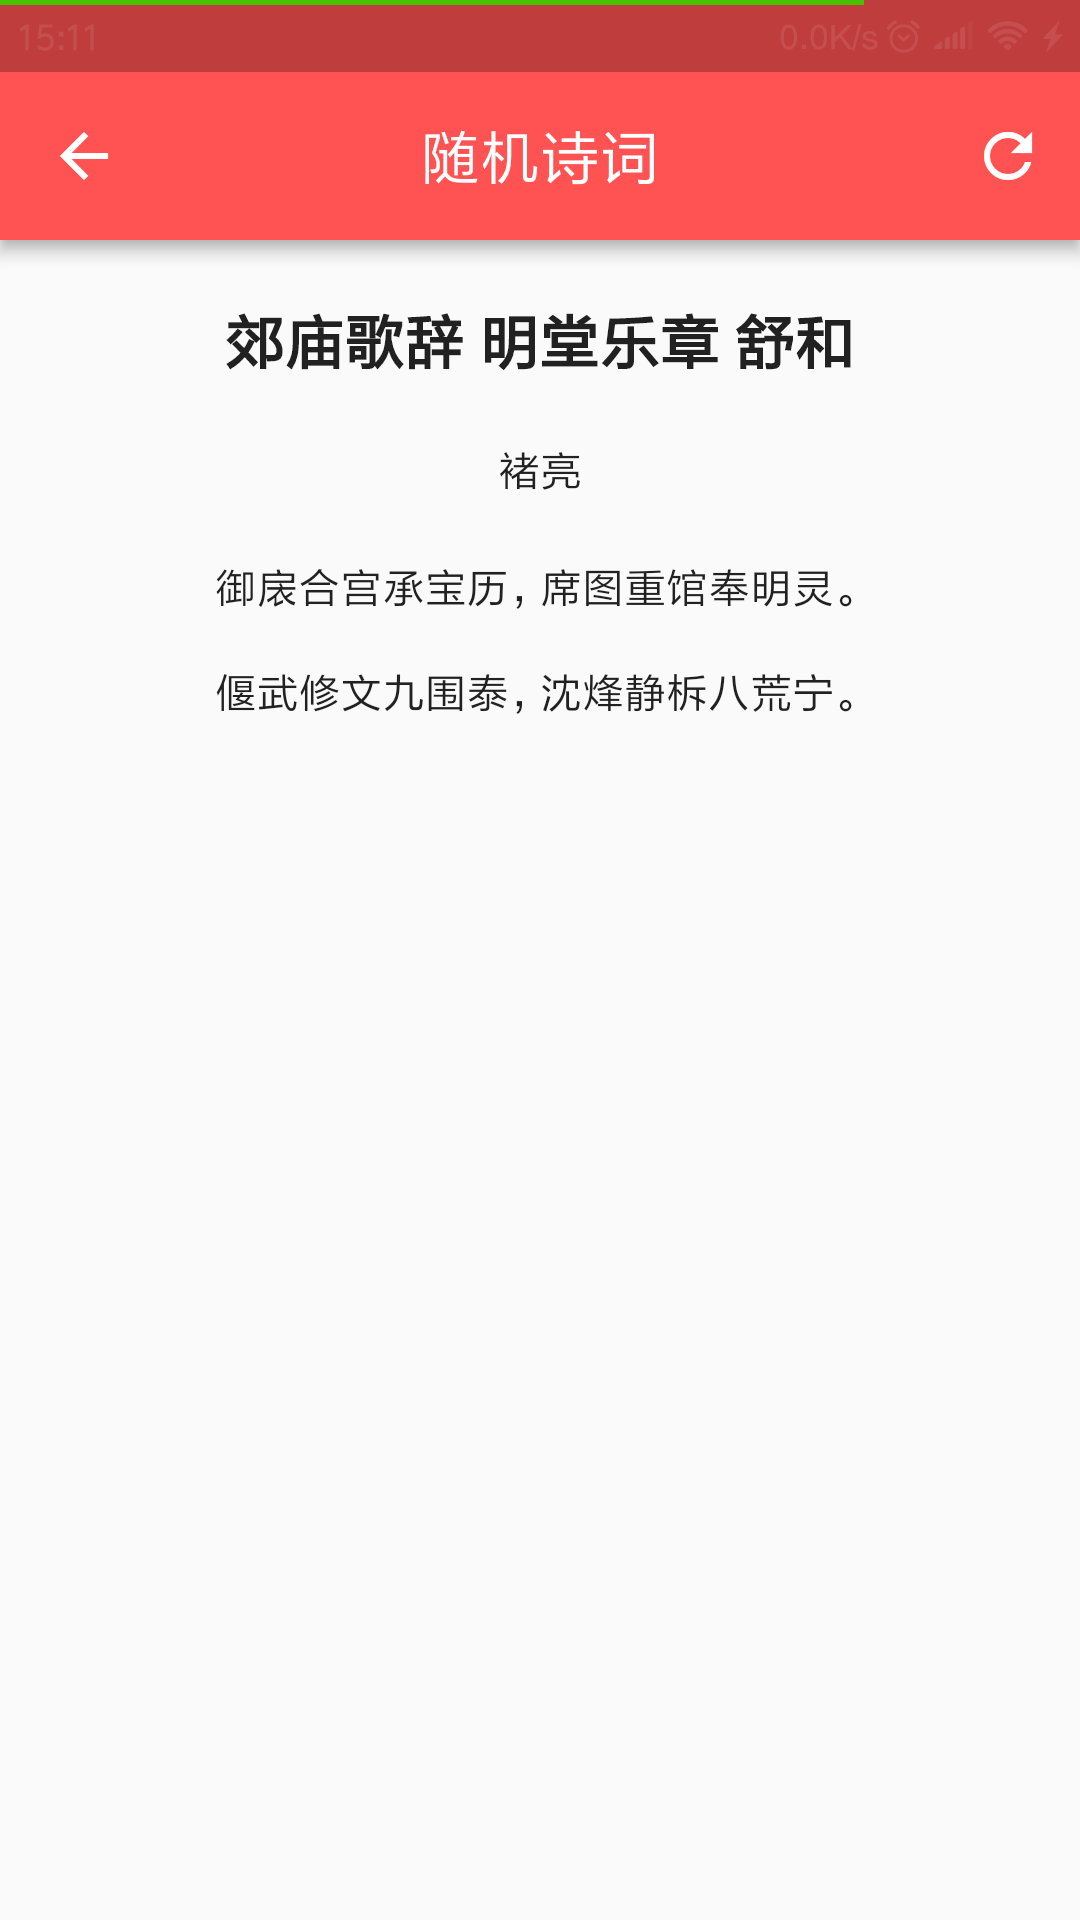
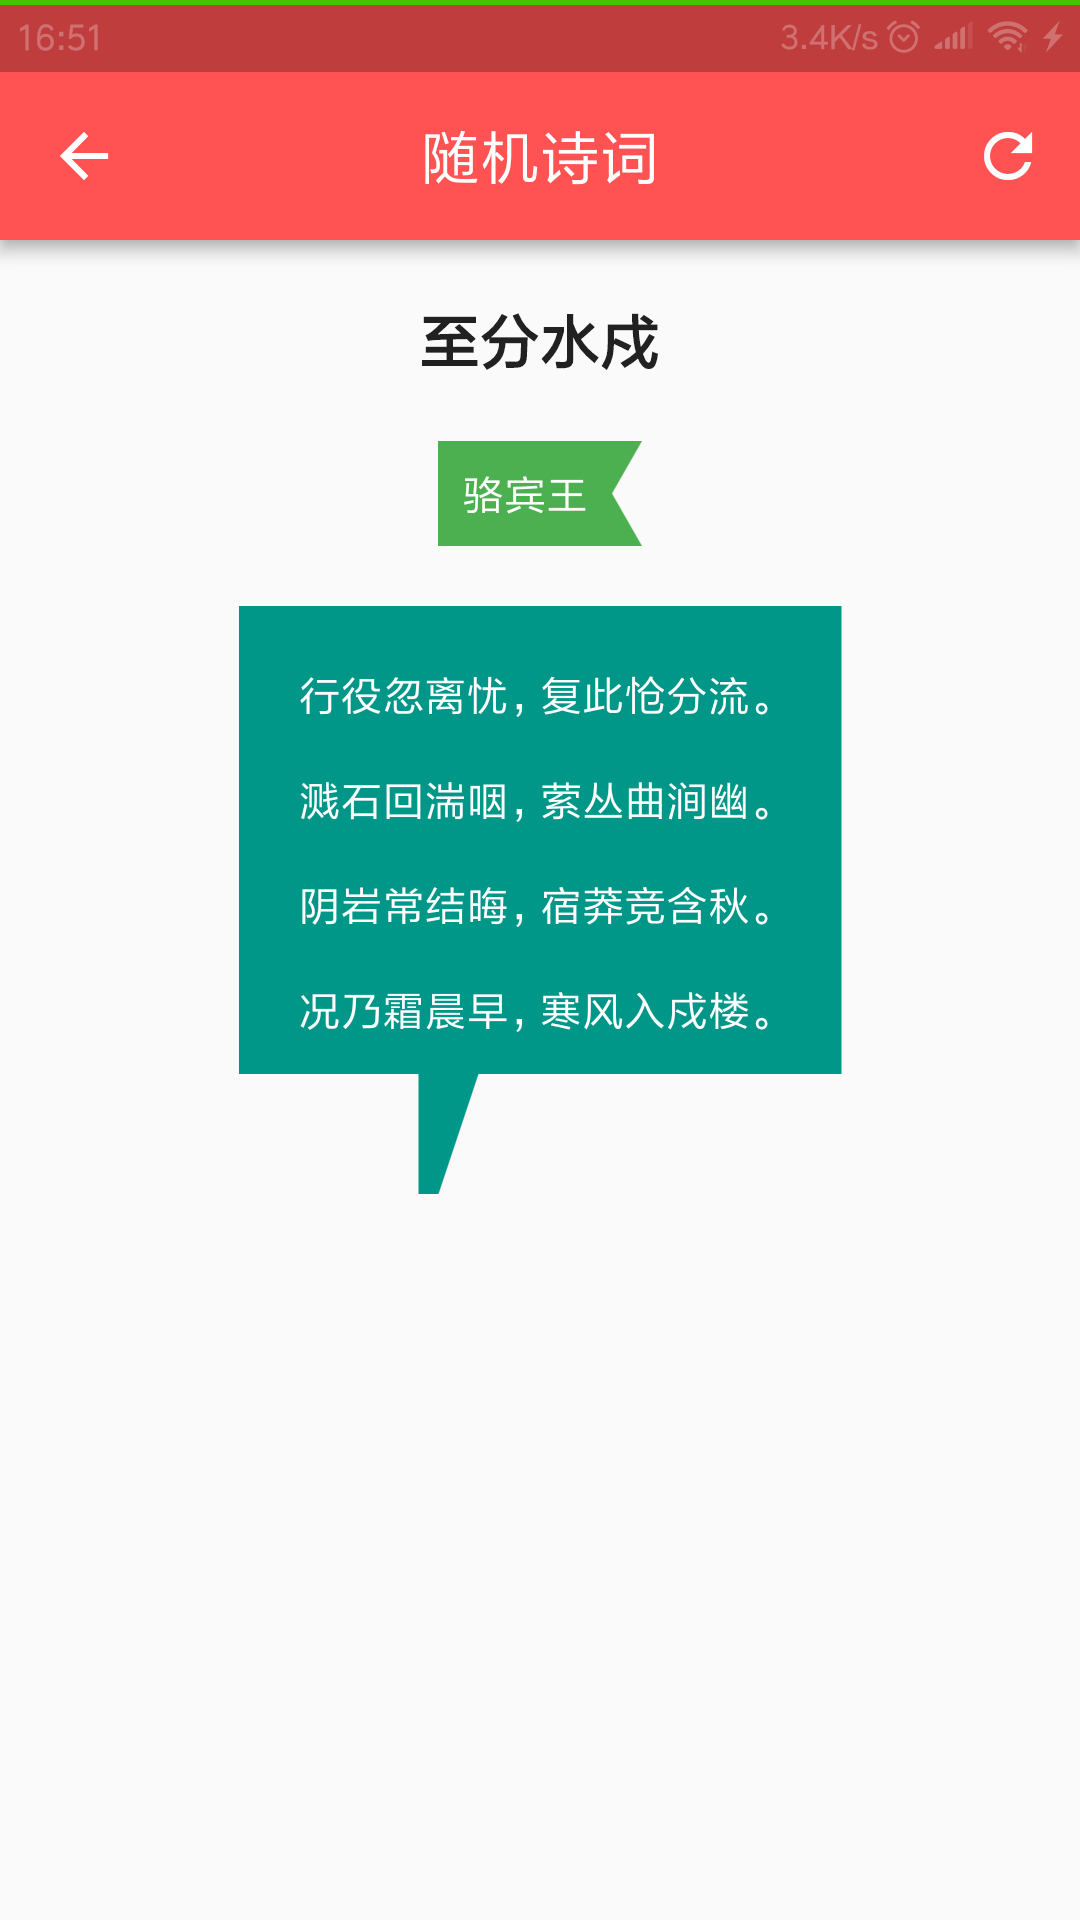
update README.md and update Screenshot

Changed region(s): [[0.1833, 0.1562, 0.7944, 0.625], [0.7333, 0.0, 1.0, 0.0312], [0.0306, 0.0, 0.0917, 0.0312]]

diff --git a/README.md b/README.md
@@ -4,9 +4,10 @@ A new Flutter application.
 
 ## 运行截图
 
-|![0](https://github.com/shichunlei/flutter_app/blob/master/screenshots/Screenshot_2019-02-13-18-13-58-429.png)|![1](https://github.com/shichunlei/flutter_app/blob/master/screenshots/Screenshot_2019-01-30-15-11-11-913.png)|![2](https://github.com/shichunlei/flutter_app/blob/master/screenshots/Screenshot_2019-01-30-15-11-44-611.png)|![3](https://github.com/shichunlei/flutter_app/blob/master/screenshots/Screenshot_2019-01-30-15-12-01-953.png)|
+
+|![0](https://github.com/shichunlei/flutter_app/blob/master/screenshots/Screenshot_2019-02-13-18-13-58-429.png)|![1](https://github.com/shichunlei/flutter_app/blob/master/screenshots/Screenshot_2019-01-30-15-11-11-913.png)|![5](https://github.com/shichunlei/flutter_app/blob/master/screenshots/Screenshot_2019-03-05-17-05-27-313.png)|![2](https://github.com/shichunlei/flutter_app/blob/master/screenshots/Screenshot_2019-01-30-15-11-44-611.png)|![3](https://github.com/shichunlei/flutter_app/blob/master/screenshots/Screenshot_2019-01-30-15-12-01-953.png)|
 | :--: | :--: | :--: | :--: |
-|首页|侧边栏|随机诗词|二维码（生成/扫描）|
+|首页|侧边栏|版本信息|随机诗词|二维码（生成/扫描）|
 
 
 |![1](https://github.com/shichunlei/flutter_app/blob/master/screenshots/Screenshot_2019-01-30-15-15-38-136.png)|![2](https://github.com/shichunlei/flutter_app/blob/master/screenshots/Screenshot_2019-01-30-15-15-42-485.png)|
@@ -14,9 +15,12 @@ A new Flutter application.
 |登录|注册|
 
 
-|![1](https://github.com/shichunlei/flutter_app/blob/master/screenshots/Screenshot_2019-01-30-15-13-51-495.png)|![2](https://github.com/shichunlei/flutter_app/blob/master/screenshots/Screenshot_2019-01-30-15-14-03-080.png)|![3](https://github.com/shichunlei/flutter_app/blob/master/screenshots/Screenshot_2019-01-30-15-14-45-013.png)|
+|![1](https://github.com/shichunlei/flutter_app/blob/master/screenshots/Screenshot_2019-01-30-15-13-51-495.png)|![2](https://github.com/shichunlei/flutter_app/blob/master/screenshots/Screenshot_2019-01-30-15-14-03-080.png)|![3](https://github.com/shichunlei/flutter_app/blob/master/screenshots/Screenshot_2019-03-05-16-52-48-129.png)|
 | :--: | :--: | :--: |
-|电影（ListView）|电影（GridView）|电影详情|
+|电影（正在热播）|电影（TOP250）|电影（排行榜）|
+|![1](https://github.com/shichunlei/flutter_app/blob/master/screenshots/Screenshot_2019-01-30-15-14-45-013.png)|![2](https://github.com/shichunlei/flutter_app/blob/master/screenshots/Screenshot_2019-03-05-16-52-35-366.png)|![3](https://github.com/shichunlei/flutter_app/blob/master/screenshots/Screenshot_2019-03-05-16-52-22-895.png)|
+|电影详情1|电影详情2|电影剧照|
+
 
 
 |![1](https://github.com/shichunlei/flutter_app/blob/master/screenshots/Screenshot_2019-02-28-09-39-35-311.png)|![2](https://github.com/shichunlei/flutter_app/blob/master/screenshots/Screenshot_2019-02-28-09-39-48-539.png)|![3](https://github.com/shichunlei/flutter_app/blob/master/screenshots/Screenshot_2019-02-28-09-40-04-052.png)|
@@ -39,6 +43,32 @@ A new Flutter application.
 |TimeLine|
 
 
+|![1](https://github.com/shichunlei/flutter_app/blob/master/screenshots/Screenshot_2019-03-05-16-52-55-186.png)|
+| :--: |
+|设备信息|
+
+
+<table>
+  <tr>
+    <p>Rounded Letter</p>
+  </tr>
+  <tr>
+    <td>
+        <img width="250px" src="https://github.com/jhomlala/roundedletter/blob/master/screenshots/screenshot_1.png">
+    </td>
+    <td>
+       <img width="250px" src="https://github.com/jhomlala/roundedletter/blob/master/screenshots/screenshot_2.png">
+    </td>
+    <td>
+       <img width="250px" src="https://github.com/jhomlala/roundedletter/blob/master/screenshots/screenshot_3.png">
+    </td>
+    <td>
+       <img width="250px" src="https://github.com/jhomlala/roundedletter/blob/master/screenshots/screenshot_4.png">
+    </td>
+  </tr>
+</table>
+
+
 # 使用到的第三方插件
 
 | Plugin | 地址 | 版本号 | 描述 |
@@ -55,8 +85,11 @@ A new Flutter application.
 | WebView for Flutter | [webview_flutter](https://github.com/flutter/plugins/tree/master/packages/webview_flutter) | ![](https://camo.githubusercontent.com/47c9187771ccb2e7aaf6c4bfb69e37a122ed3262/68747470733a2f2f696d672e736869656c64732e696f2f7075622f762f776562766965775f666c75747465722e737667) | A Flutter plugin that provides a WebView widget. On iOS the WebView widget is backed by a WKWebView; On Android the WebView widget is backed by a WebView. |
 | PackageInfo | [package_info](https://github.com/flutter/plugins/tree/master/packages/package_info) | ![](https://camo.githubusercontent.com/01a75953af6fc91e941c2b5ba32162f55d795403/68747470733a2f2f696d672e736869656c64732e696f2f7075622f762f706174685f70726f76696465722e737667) | This Flutter plugin provides an API for querying information about an application package. |
 | Share | [share](https://github.com/flutter/plugins/tree/master/packages/share) | ![](https://camo.githubusercontent.com/afe573869b306315562203bca3cf9a85ac94ccf5/68747470733a2f2f696d672e736869656c64732e696f2f7075622f762f73686172652e737667) | A Flutter plugin to share content from your Flutter app via the platform's share dialog. Wraps the ACTION_SEND Intent on Android and UIActivityViewController on iOS. |
-
-
+| 引导页 | [intro-slider](https://github.com/duytq94/flutter-intro-slider) | 1.1.5 | A plugin to help you make intro screens to show the major features of your app. You can change the image, button, text style, color, and more things. Create intro screens is never been more quick and easy than this |
+| 评分控件 | [smooth_star_rating](https://github.com/thangmam/smoothratingbar) | 1.0.1 | A Star rating with touch and swipe rate enabled |
+| PhotoView | [photo_view](https://github.com/renancaraujo/photo_view) | ![](https://camo.githubusercontent.com/8a5c98a80bb80f0eed10b5f111cc7440d1aa143e/68747470733a2f2f696d672e736869656c64732e696f2f7075622f762f70686f746f5f766965772e7376673f7374796c653d706f706f7574) | A simple zoomable image widget for Flutter. Resolves a image provider and shows the result with useful gestures support, such as pinch to zoom and pan. It also can show any widget instead of an image, such as Container, Text or a SVG. Just use custom child constructor. |
+| 时间轴 | [Timeline](https://github.com/furkantektas/timeline_list) | ![](https://camo.githubusercontent.com/81e25a24fd6072e2979c03e4d716be55eff89763/68747470733a2f2f696d672e736869656c64732e696f2f7075622f762f74696d656c696e655f6c6973742e737667) | 时间轴 |
+| Rounded Letter | [roundedletter](https://github.com/jhomlala/roundedletter) | ![](https://camo.githubusercontent.com/ab6351029d9980584a1120d90dccb654e8ab8dbb/68747470733a2f2f696d672e736869656c64732e696f2f7075622f762f726f756e6465645f6c65747465722e737667) | Useful Flutter widget which allows you to create letter inside shape. Can be used for placeholders (for example user avatars). This package is named 'Rounded letter' because main idea was letter inside circle just like Android 5.0 contacts. Later idea has evolved into more shapes. |
 
 
 
